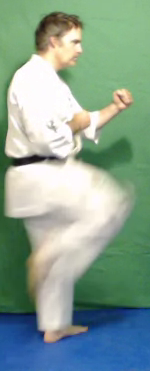
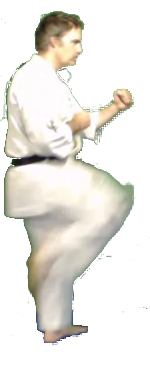
Add transparency

diff --git a/style.css b/style.css
@@ -17,24 +17,24 @@
 }
 
 .walk1 {
-	background-image: url('walk1/132.png');
-	width: 86px;
-	height: 185px;
+	background-image: url('images/walk1.png');
+	width: 70px;
+	height: 180px;
 }
 .walk2 {
-	background-image: url('walk1/133.png');
-	width: 86px;
-	height: 185px;
+	background-image: url('images/walk2.png');
+	width: 64px;
+	height: 180px;
 }
 .walk3 {
-	background-image: url('walk1/134.png');
-	width: 86px;
-	height: 185px;
+	background-image: url('images/walk3.png');
+	width: 69px;
+	height: 180px;
 }
 .walk4 {
-	background-image: url('walk1/135.png');
-	width: 86px;
-	height: 185px;
+	background-image: url('images/walk4.png');
+	width: 61px;
+	height: 180px;
 }
 .walk5 {
 	background-image: url('walk1/136.png');

diff --git a/script.js b/script.js
@@ -11,10 +11,10 @@ function jump(){
 }
 
 var walk1 = {
-	frames: ["walk1", "walk2", "walk3"]
+	frames: ["walk1", "walk2"]
 }
 var walk2 = {
-	frames: ["walk4", "walk5", "walk6"]
+	frames: ["walk3", "walk4"]
 }
 var kick1 = {
 	frames: ["kick1", "kick2"]
